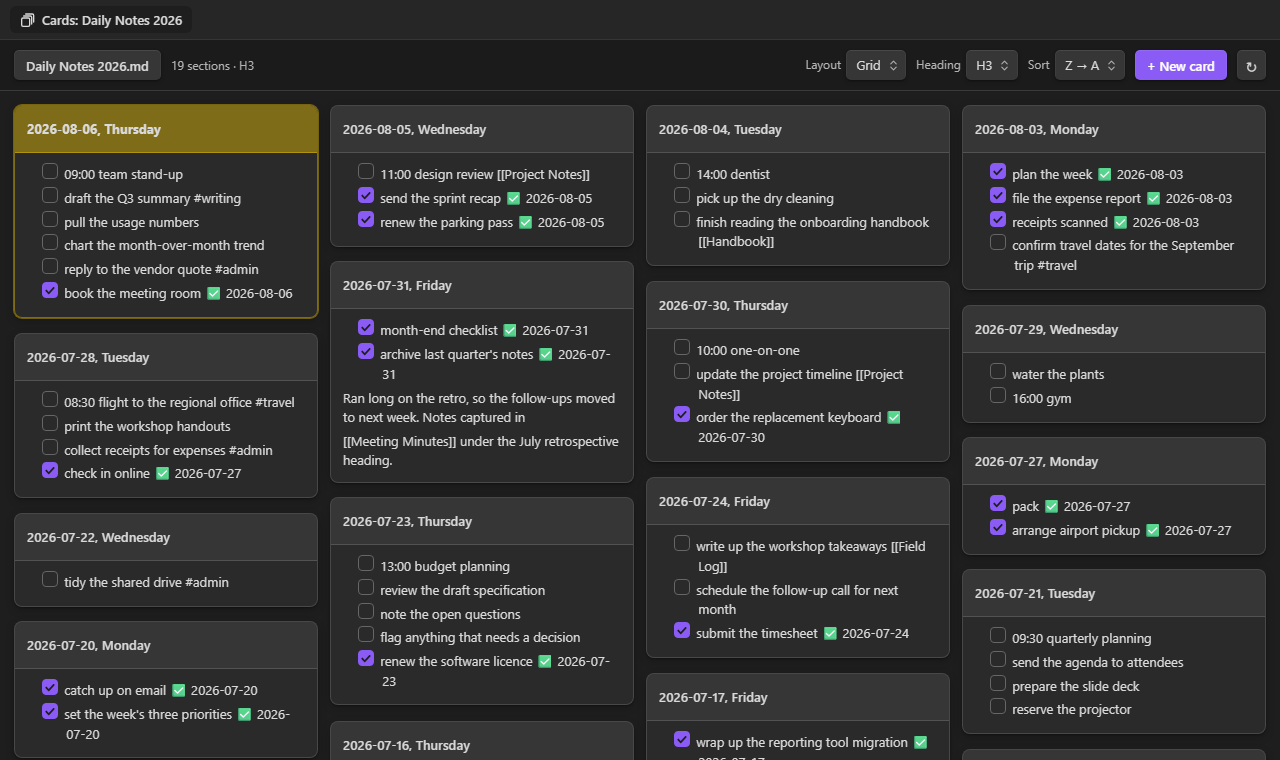
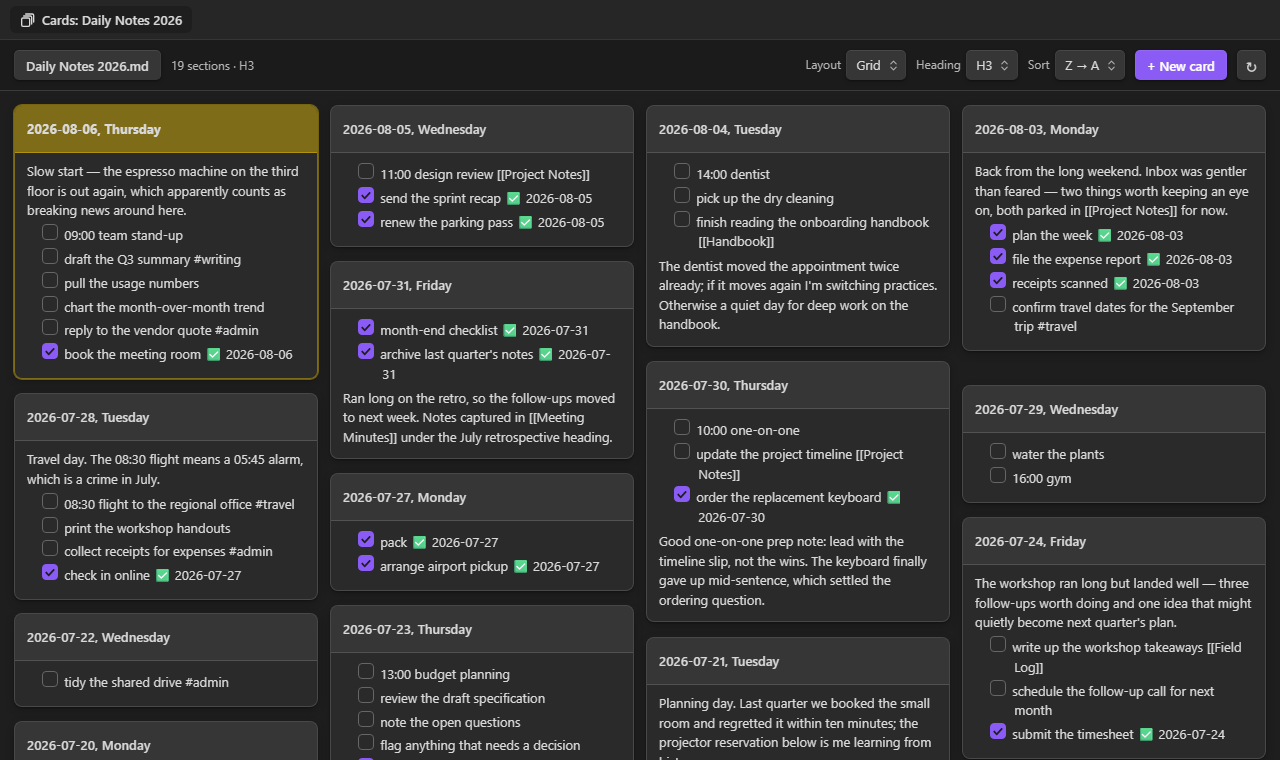
Mix prose into the sample vault and reshoot the screenshots
The sample daily notes were task lists top to bottom, which made the cards
look like a to-do app. Nine days now carry short journal-style passages
alongside their tasks, so the screenshots show how cards render ordinary
paragraphs too. All five layout screenshots regenerated from the enriched
vault — the Grid Aligned shot now also shows the row separators, which
didn't exist when it was last captured.

Changed region(s): [[0.0, 0.2118, 0.9688, 1.0], [0.75, 0.4842, 1.0, 1.0]]

diff --git a/sample-vault/Daily Notes 2026.md b/sample-vault/Daily Notes 2026.md
@@ -1,6 +1,9 @@
 ## August 2026
 
 ### 2026-08-06, Thursday
+Slow start — the espresso machine on the third floor is out again, which
+apparently counts as breaking news around here.
+
 - [ ] 09:00 team stand-up
 - [ ] draft the Q3 summary #writing
 	- [ ] pull the usage numbers
@@ -18,7 +21,13 @@
 - [ ] pick up the dry cleaning
 - [ ] finish reading the onboarding handbook [[Handbook]]
 
+The dentist moved the appointment twice already; if it moves again I'm
+switching practices. Otherwise a quiet day for deep work on the handbook.
+
 ### 2026-08-03, Monday
+Back from the long weekend. Inbox was gentler than feared — two things worth
+keeping an eye on, both parked in [[Project Notes]] for now.
+
 - [x] plan the week ✅ 2026-08-03
 - [x] file the expense report ✅ 2026-08-03
 	- [x] receipts scanned ✅ 2026-08-03
@@ -36,11 +45,16 @@ Ran long on the retro, so the follow-ups moved to next week. Notes captured in
 - [ ] update the project timeline [[Project Notes]]
 - [x] order the replacement keyboard ✅ 2026-07-30
 
+Good one-on-one prep note: lead with the timeline slip, not the wins. The
+keyboard finally gave up mid-sentence, which settled the ordering question.
+
 ### 2026-07-29, Wednesday
 - [ ] water the plants
 - [ ] 16:00 gym
 
 ### 2026-07-28, Tuesday
+Travel day. The 08:30 flight means a 05:45 alarm, which is a crime in July.
+
 - [ ] 08:30 flight to the regional office #travel
 - [ ] print the workshop handouts
 - [ ] collect receipts for expenses #admin
@@ -51,6 +65,9 @@ Ran long on the retro, so the follow-ups moved to next week. Notes captured in
 - [x] arrange airport pickup ✅ 2026-07-27
 
 ### 2026-07-24, Friday
+The workshop ran long but landed well — three follow-ups worth doing and one
+idea that might quietly become next quarter's plan.
+
 - [ ] write up the workshop takeaways [[Field Log]]
 - [ ] schedule the follow-up call for next month
 - [x] submit the timesheet ✅ 2026-07-24
@@ -66,6 +83,9 @@ Ran long on the retro, so the follow-ups moved to next week. Notes captured in
 - [ ] tidy the shared drive #admin
 
 ### 2026-07-21, Tuesday
+Planning day. Last quarter we booked the small room and regretted it within
+ten minutes; the projector reservation below is me learning from history.
+
 - [ ] 09:30 quarterly planning
 - [ ] send the agenda to attendees
 - [ ] prepare the slide deck
@@ -85,6 +105,9 @@ Ran long on the retro, so the follow-ups moved to next week. Notes captured in
 - [ ] 15:00 library book due
 - [ ] test the backup restore #maintenance
 
+A backup you haven't restored from is a rumour, not a backup. Blocking out
+the whole afternoon for it.
+
 ### 2026-07-15, Wednesday
 - [ ] draft the training outline
 - [ ] 12:00 lunch with the new starter
@@ -98,3 +121,6 @@ Ran long on the retro, so the follow-ups moved to next week. Notes captured in
 - [x] weekly review ✅ 2026-07-13
 - [ ] book the annual check-up
 - [ ] look into the standing desk options
+
+Weekly review verdict: too many open loops, most of them small. This week is
+for closing, not starting.
